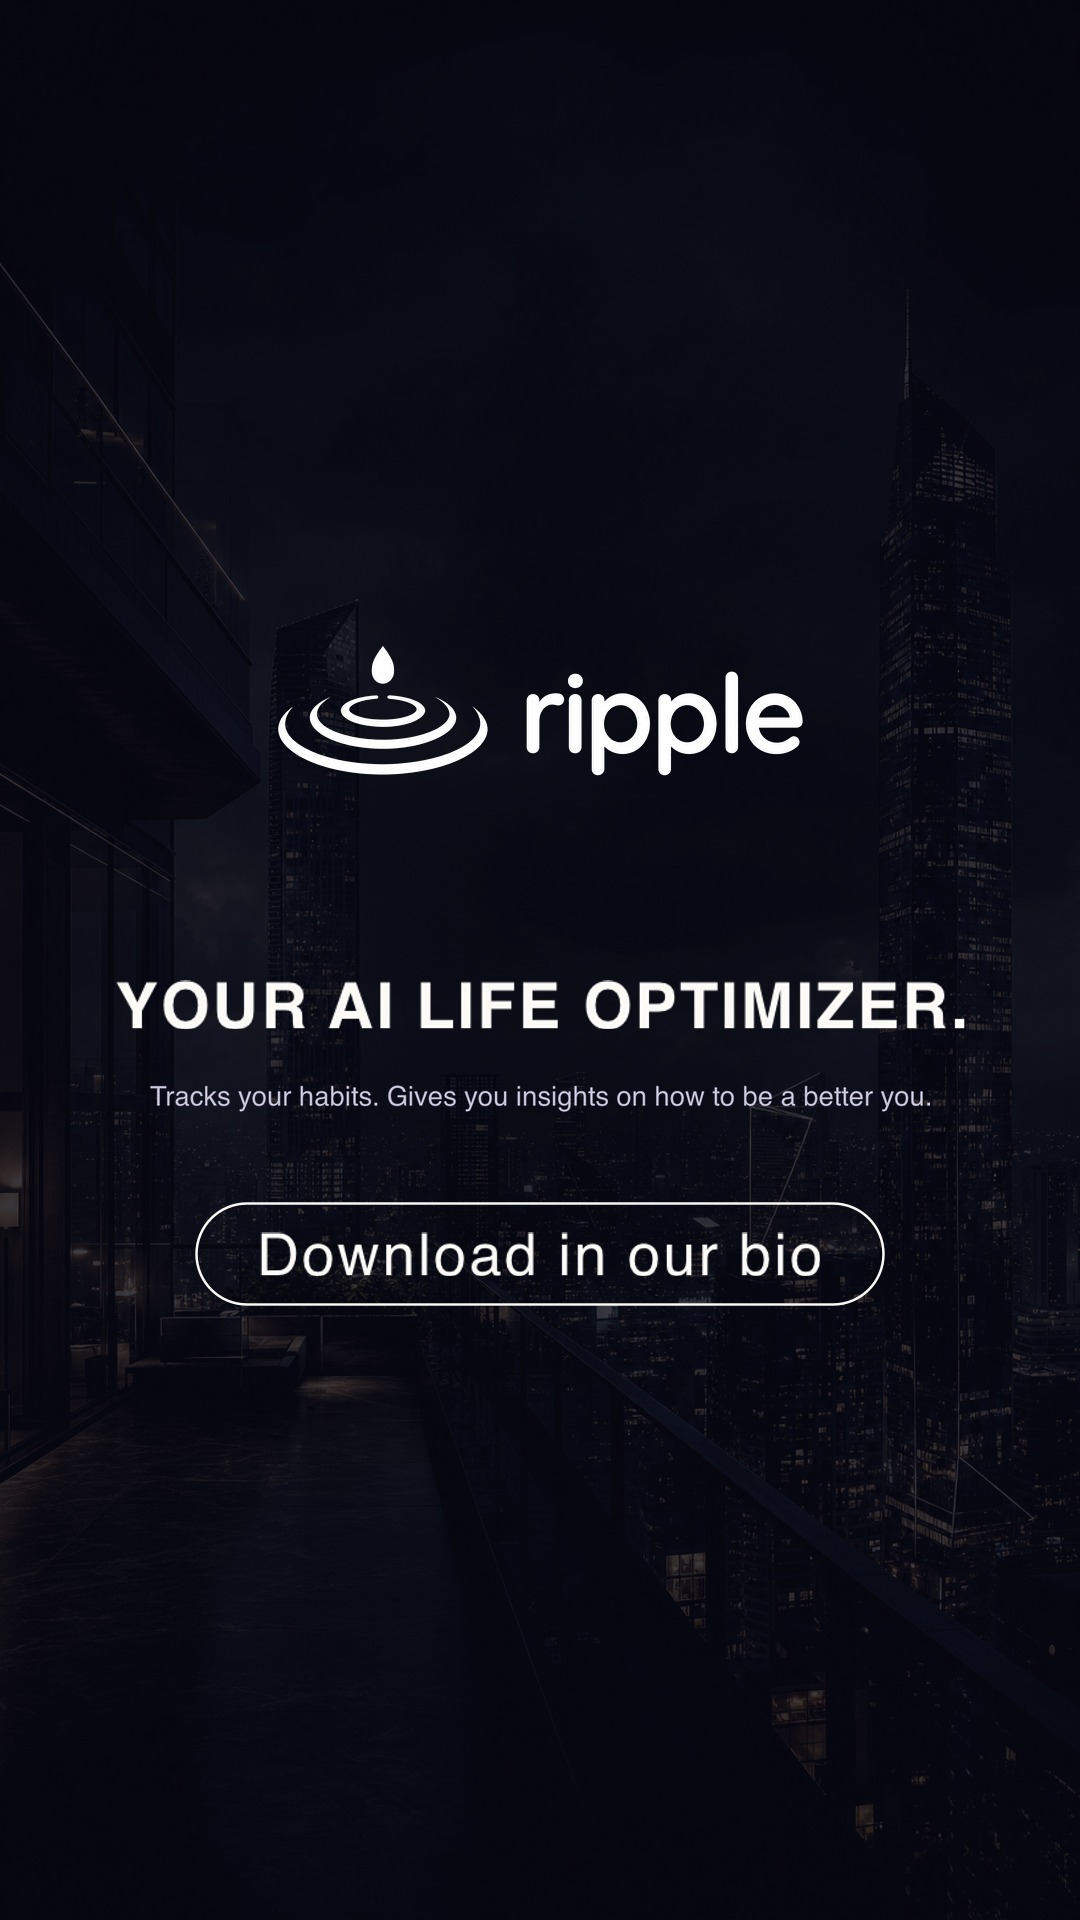
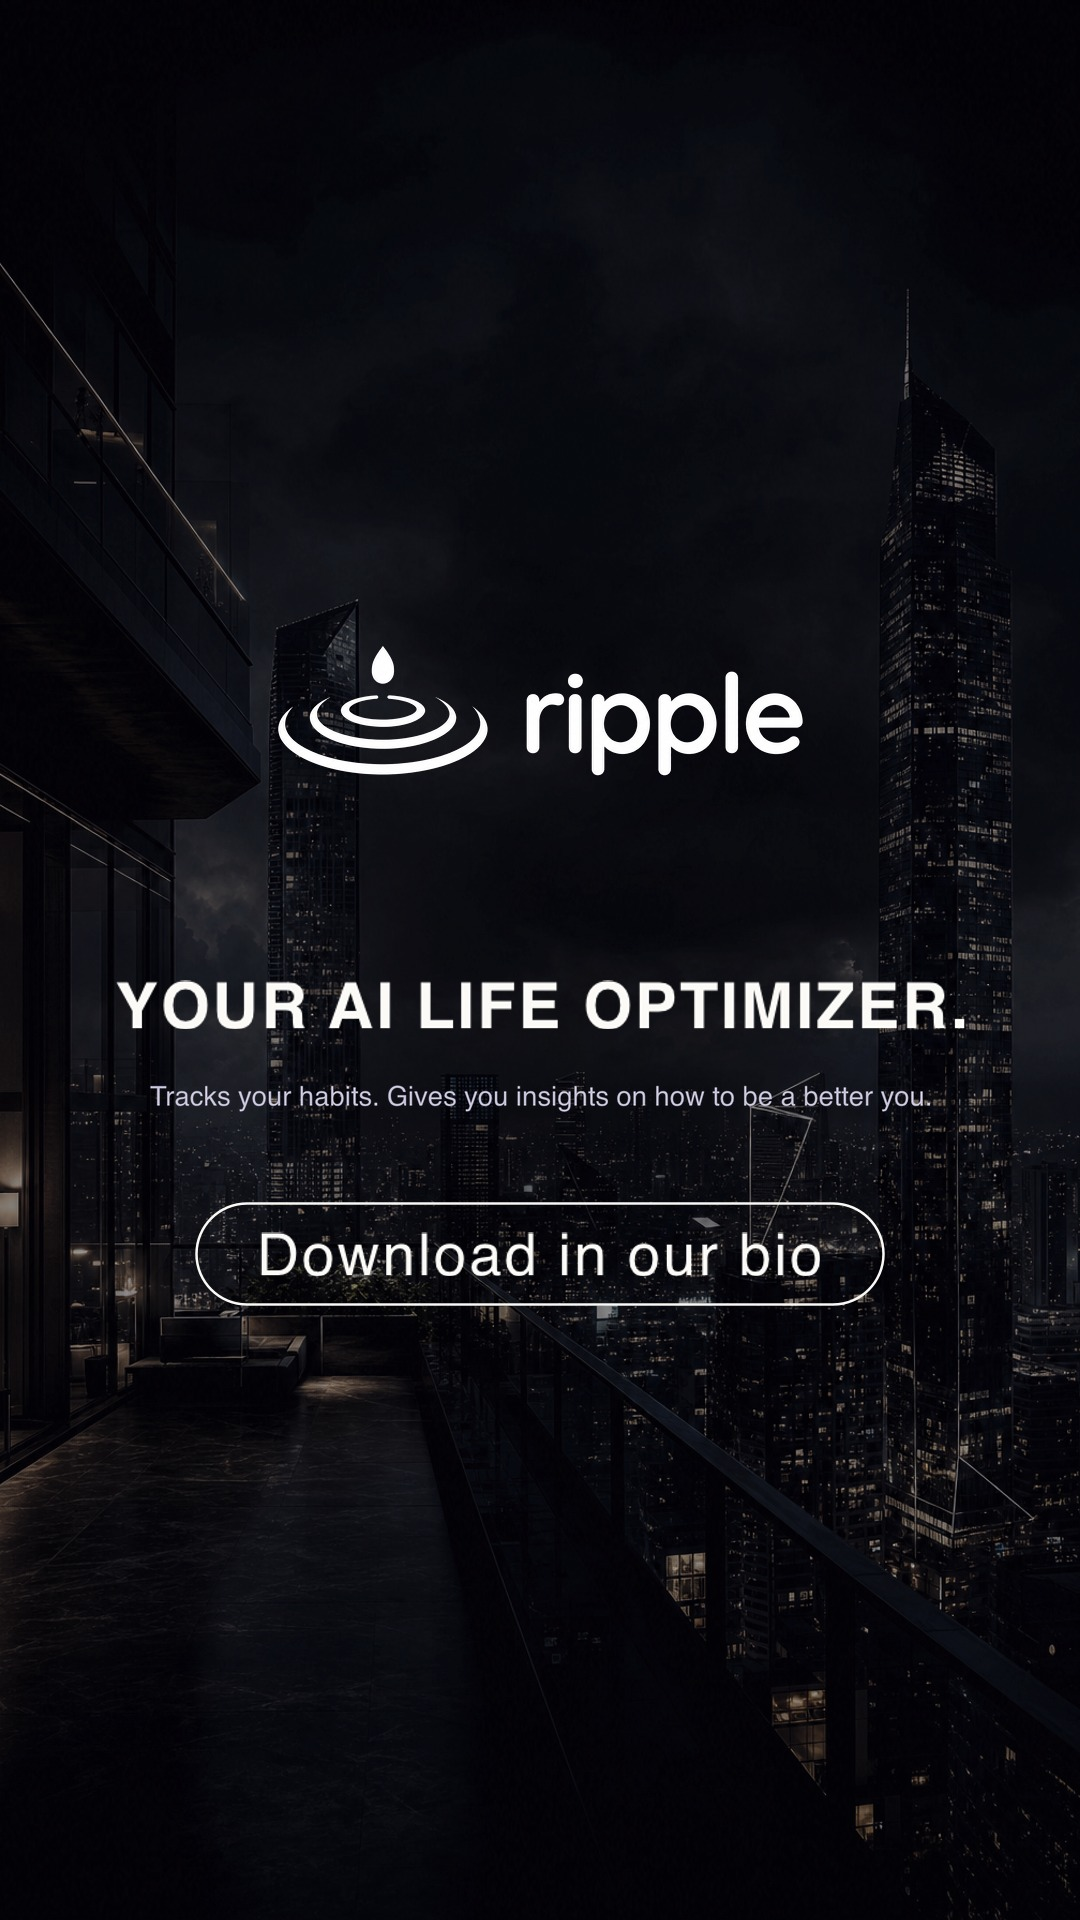
fix(content-factory): Brighten the BWK CTA slide background
The night-skyline background read as near-black on phones. Adds a brightness lift and drops the dark wash so the scene is clearly visible while white text stays legible. Ripple slide unchanged (approved).

- apps/web/scripts/make-cta-slides.ts: bgBrightness option (BWK 1.45), wash 0.55 -> 0.22
- apps/web/public/cta-slide-bwk.jpg regenerated

diff --git a/apps/web/scripts/make-cta-slides.ts b/apps/web/scripts/make-cta-slides.ts
@@ -173,6 +173,8 @@ async function makeSlide(opts: {
   bgPrompt: string;
   /** rgba wash over the photo so text always reads */
   wash: { color: string; opacity: number };
+  /** optional brightness multiplier applied to the photo first */
+  bgBrightness?: number;
   logo: Buffer;
   headline: string;
   headlineColor: string;
@@ -189,6 +191,7 @@ async function makeSlide(opts: {
   const bgRaw = await generateBg(opts.bgCache, opts.bgPrompt);
   const bg = await sharp(bgRaw)
     .resize(W, H, { fit: "cover", position: "centre" })
+    .modulate({ brightness: opts.bgBrightness ?? 1 })
     .toBuffer();
 
   const washSvg = `<svg width="${W}" height="${H}"><rect width="${W}" height="${H}" fill="${opts.wash.color}" fill-opacity="${opts.wash.opacity}"/></svg>`;
@@ -279,7 +282,8 @@ async function main() {
     bgCache: "cta-bg-bwk.png",
     bgPrompt:
       "Dark, dominant, moody minimalist photography: a luxury city skyline at night seen from a high penthouse terrace, cold glass towers, scattered warm window lights, low clouds. Desaturated, near-monochrome color grade — charcoal, slate, black, night-city light. Deep shadows, austere, powerful, cinematic editorial quality. The entire frame is DIM and shadowed, darkest in the center, so clean white text placed at the center would be perfectly legible. No text, no words, no people. 9:16 vertical.",
-    wash: { color: "#0E0D1F", opacity: 0.55 },
+    wash: { color: "#0E0D1F", opacity: 0.22 },
+    bgBrightness: 1.45,
     logo: await whiteLogoAlpha("ripple-lockup-dusk.png", 620),
     headline: "YOUR AI LIFE OPTIMIZER.",
     headlineColor: "#FBFAF6",
